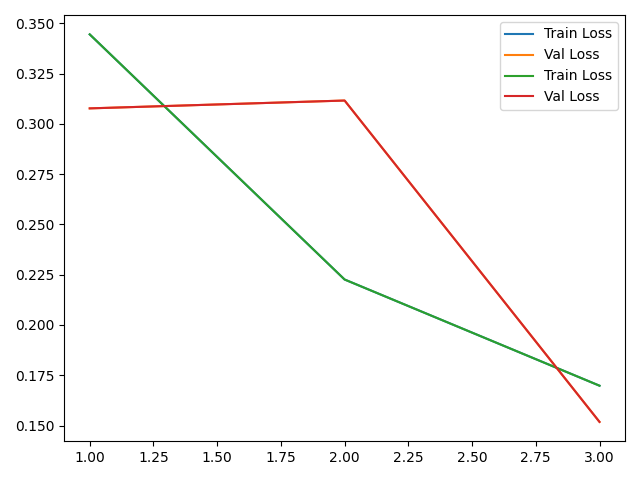
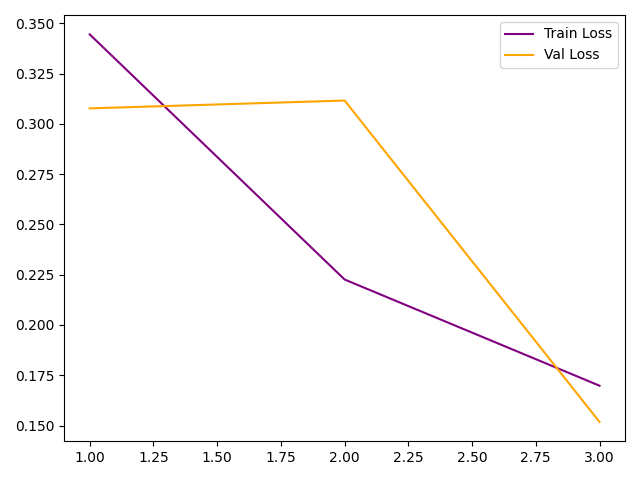
update loss graph

diff --git a/loss_graph.py b/loss_graph.py
@@ -9,8 +9,8 @@ train_loss = [0.3445, 0.2226, 0.1698]
 val_loss = [0.3077, 0.3116, 0.1518]
 epochs = [1,2,3]
 
-plt.plot(epochs, train_loss, label='Train Loss')
-plt.plot(epochs, val_loss, label='Val Loss')
+plt.plot(epochs, train_loss, color='purple', label='Train Loss')
+plt.plot(epochs, val_loss, color='orange', label='Val Loss')
 plt.legend()
 plt.savefig("Output/loss_graph.png")
 plt.show()
